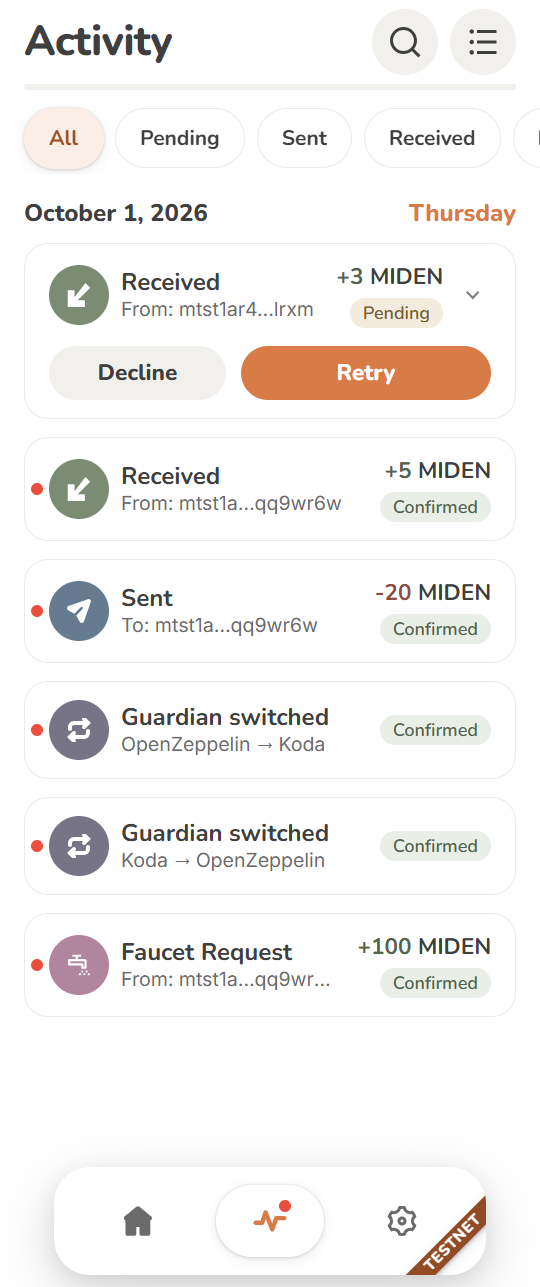
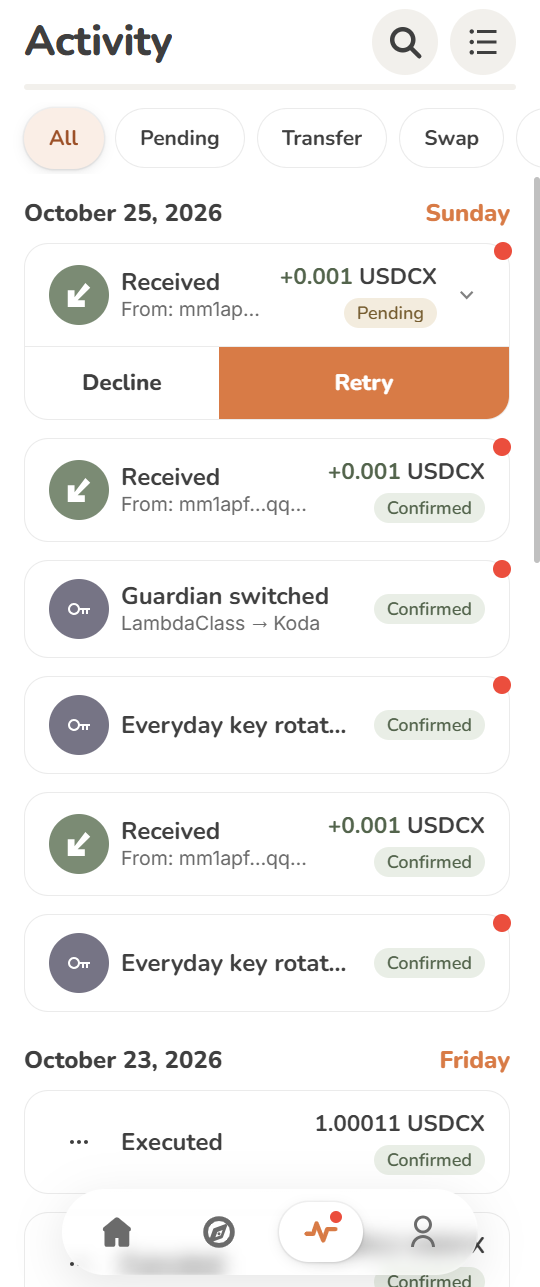
content: E30 and E31 show a real Retry on mainnet wallet 1.17.6

diff --git a/tasks/screenshot-capture-sheet.md b/tasks/screenshot-capture-sheet.md
@@ -15,7 +15,7 @@ given screenshot came from, and "the store release" stops meaning anything as so
 | Mobile retake (issue #34) | **1.16.2** | done, 2026-10-02, by hand on iPhone; see *Mobile retake on 1.16.2* below |
 | Extension, Earn articles | **1.16.2** | done, 2026-10-06, automated; E35 to E47, see *L. Earn* below. E46 is to be retaken |
 | Extension, Settings FAQs | **1.17.1** | done, 2026-10-09, automated; E48 to E65, see *M. Settings* below |
-| Extension, mainnet audit | **1.17.6** | done, 2026-10-25, automated on mainnet; 21 retaken, see *Extension mainnet audit on 1.17.6* below |
+| Extension, mainnet audit | **1.17.6** | done, 2026-10-25, automated on mainnet; 23 retaken, see *Extension mainnet audit on 1.17.6* below |
 
 1.16.1 is what Settings reports in the build being captured. It supersedes the 1.16.0 this sheet carried,
 which came from the store listing — the installed build is the authority, not the listing.
@@ -28,13 +28,13 @@ Every Extension screenshot an article shows was compared, as an image, with the 
 Welcome opens with seven clicks on the logo, then **I don't have a code** > **Recover your account**.
 File names, IDs and sizes are unchanged.
 
-- Retaken: E19 to E28, E32 to E34, E48, E57 to E59, E61, E63 to E65 (the test contact was a second
-  mainnet address of Ivan's, deleted afterwards). **Profile** replaces **Settings** and the tab
+- Retaken: E19 to E28, E32 to E34, E48, E57 to E59, E30, E31, E61, E63 to E65 (the test contact was a second
+  mainnet address of Ivan's, deleted afterwards). E30 and E31 show a real **Retry**: Ivan sent a
+  transfer and the wallet was closed while the accept was processing. **Profile** replaces **Settings** and the tab
   bar has four icons; the Guardian list, the Activity tabs (**Transfer** replaces **Received**) and the
   spending-limit chips changed.
 - Unchanged, kept: E49 to E56, E60, E62. E52 differs only by an empty password placeholder.
-- Not retaken: E01, E01a and E02 (taken by hand); E35 to E47 (Earn is not available on mainnet);
-  E30 and E31 (1.17.6 no longer shows **Retry** after an interrupted accept, only after a real error).
+- Not retaken: E01, E01a and E02 (taken by hand); E35 to E47 (Earn is not available on mainnet).
 - Side panel: 1.17.6 opens a popup until a person finishes onboarding. The real panel, opened by
   hand, measured 540 x 1287, the same as the 360 x 858 tab at 1.5x.
 

diff --git a/tasks/todo.md b/tasks/todo.md
@@ -1400,13 +1400,11 @@ Seven FAQs (articles 52 to 58, FAQ 29 to 35) were written against the Extension 
 
 - [x] E63, E64, E65 (save, edit, delete a contact): retaken 2026-10-25 with a second mainnet address
       of Ivan's as the test contact, deleted afterwards.
-- [ ] E30, E31 (**Retry**): still the 1.16.2 testnet images. 1.17.6 returns an interrupted accept to
-      **Accept Transfer**; **Retry** appears only when queuing the accept fails with a real error. Closes
-      with a genuine failed accept on mainnet.
+- [x] E30, E31 (**Retry**): retaken 2026-10-25 from a real failed accept on mainnet (the wallet was
+      closed while the accept was processing).
 - [ ] E35 to E47 (Earn): not retaken; mainnet shows **Earn is not available on this network**. Closes
       when Earn opens on mainnet.
-- [ ] E01, E01a, E02 (Chrome Web Store install): taken by hand, not checked in this run.
+- [x] E01, E01a, E02 (Chrome Web Store install) and M01 (App Store): no change needed (Ivan, 2026-10-25).
 - [x] Mobile: confirmed on iPhone, 2026-10-25 (Bread 1.17.6): **Profile** (person icon),
       **Auto-accept USDCX transfers**, the Guardian list, and the **Pending** and **Transfer** filters
       all match, so articles 21, 31 and 41 need no mobile change.
-- [ ] M01 (App Store listing): not checked yet; needs a fresh screenshot of the App Store page.
